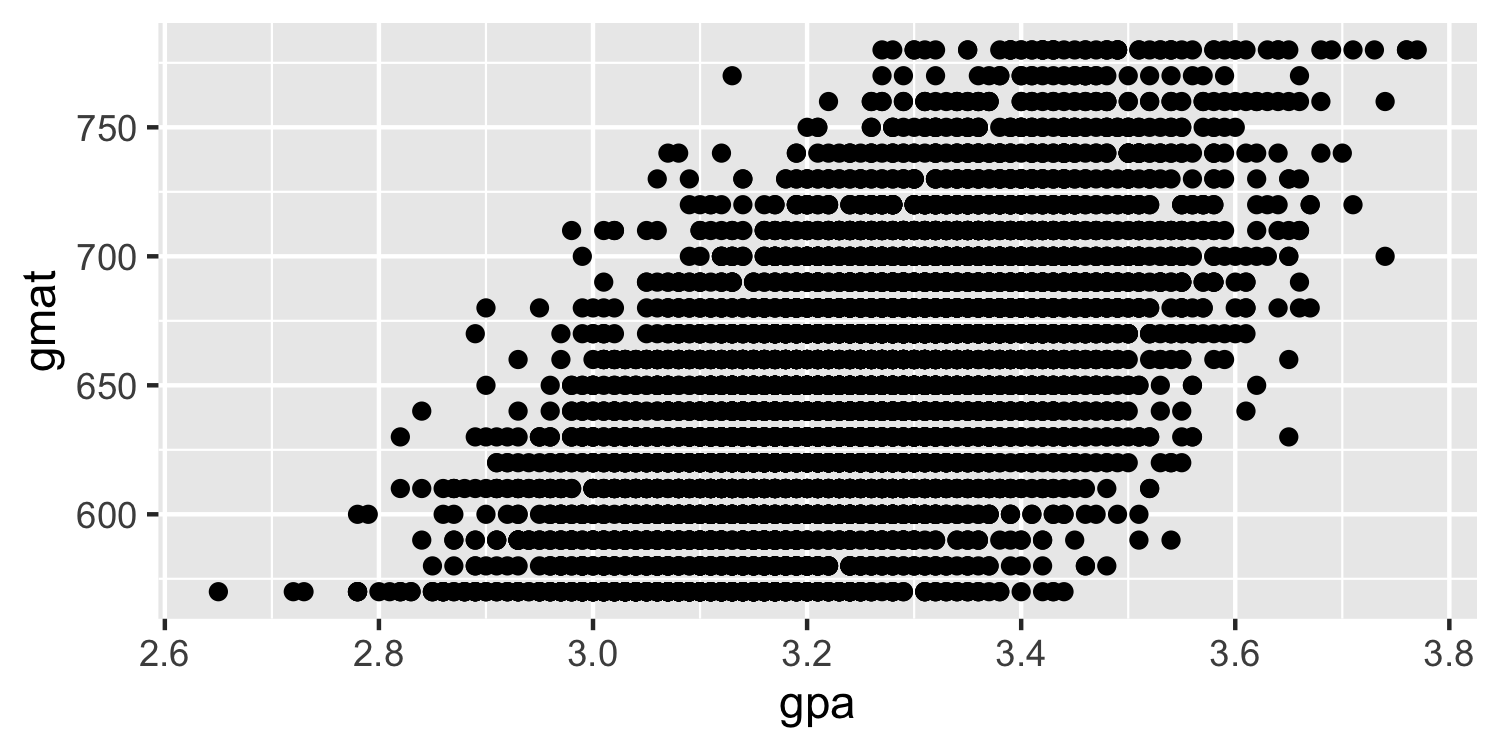
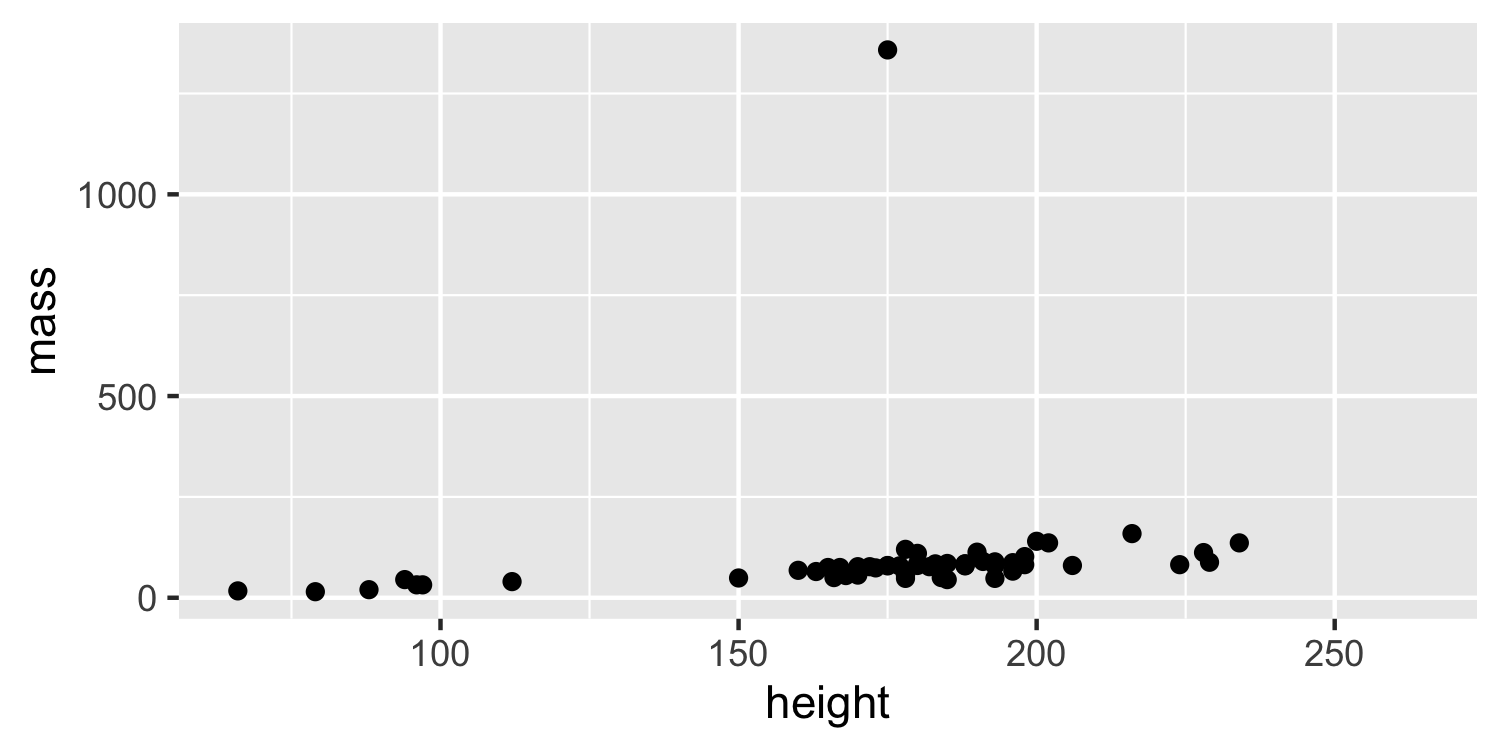
Add datasets at beginning of deck

diff --git a/slides/part_3/index.html b/slides/part_3/index.html
@@ -59,6 +59,16 @@ class: center, middle, inverse, title-slide
   - Disaggregated data
 - Customizing plots
 
+**Import datasets for today's class**
+
+```r
+library(tidyverse)
+
+airbnb &lt;- read_csv('https://bit.ly/3oadz2L')
+climate &lt;- read_csv('https://bit.ly/3kKErEb')
+mba &lt;- read_csv("https://bit.ly/4evYpeW")
+```
+
 ---
 
 # A reminder on troubleshooting
@@ -91,7 +101,7 @@ mean(saudi$temp, na.rm = TRUE)
 mean(peru$temp, rm.na = TRUE)
 ```
 
-<countdown-timer class="countdown" id="timer_6b822ae9" minutes="5" seconds="0" update-every="1" tabindex="0" style="right:0;bottom:0;"></countdown-timer>
+<countdown-timer class="countdown" id="timer_b2c23405" minutes="5" seconds="0" update-every="1" tabindex="0" style="right:0;bottom:0;"></countdown-timer>
 
 ---
 
@@ -105,7 +115,7 @@ Report the average GMAT scores and number of applicants by major for female appl
 mba &lt;- read_csv("https://bit.ly/4evYpeW")
 ```
 
-<countdown-timer class="countdown" id="timer_7bc26529" minutes="5" seconds="0" update-every="1" tabindex="0" style="right:0;bottom:0;"></countdown-timer>
+<countdown-timer class="countdown" id="timer_898d9fcb" minutes="5" seconds="0" update-every="1" tabindex="0" style="right:0;bottom:0;"></countdown-timer>
 
 ---
 
@@ -207,7 +217,7 @@ What we will learn
 ```r
 library(tidyverse)
 
-mba %&gt;% ggplot() + geom_point(aes(gpa, gmat))
+starwars %&gt;% ggplot() + geom_point(aes(height, mass))
 ```
 
 --
@@ -224,7 +234,7 @@ mba %&gt;% ggplot() + geom_point(aes(gpa, gmat))
 ```r
 install.packages('tidyverse')
 library(tidyverse)
-mba %&gt;% ggplot() + geom_point(aes(gpa, gmat))
+starwars %&gt;% ggplot() + geom_point(aes(height, mass))
 ```
 
 --
@@ -234,7 +244,7 @@ mba %&gt;% ggplot() + geom_point(aes(gpa, gmat))
 ```r
 install.packages('ggplot2')
 library(ggplot2)
-mba %&gt;% ggplot() + geom_point(aes(gpa, gmat))
+starwars %&gt;% ggplot() + geom_point(aes(height, mass))
 ```
 
 ---
@@ -347,7 +357,7 @@ climate &lt;- read_csv('https://bit.ly/3kKErEb')
 ```
   
 
-<countdown-timer class="countdown" id="timer_1e09f9d7" minutes="7" seconds="0" update-every="1" tabindex="0" style="right:0;bottom:0;"></countdown-timer>
+<countdown-timer class="countdown" id="timer_e79f3202" minutes="7" seconds="0" update-every="1" tabindex="0" style="right:0;bottom:0;"></countdown-timer>
 
 ---
 
@@ -382,7 +392,7 @@ climate %&gt;%
 
 ---
 
-# Geoms - Bar Plot (Aggregate Data)
+# Geoms - Bar Plot
 
 `stat` in `geom_bar()`: "count" vs. "identity"  
 - `stat = 'count'` tells R to count the number of rows for values in `x` and visualize them  
@@ -431,11 +441,11 @@ airbnb %&gt;%
   mutate(listings_deficit = if_else(n_listings &lt; 100, 'y', 'n'))
 ```
 
-<countdown-timer class="countdown" id="timer_ee637aa3" minutes="5" seconds="0" update-every="1" tabindex="0" style="right:0;bottom:0;"></countdown-timer>
+<countdown-timer class="countdown" id="timer_143ce889" minutes="5" seconds="0" update-every="1" tabindex="0" style="right:0;bottom:0;"></countdown-timer>
 
 ---
 
-# group_by() and summarise() + ggplot()
+# Exercise
 
 
 ``` r
@@ -526,7 +536,7 @@ my_data %&gt;%
   - The updated version of the plot should use `group_by()` and `summarise()` and `stat` should be `'identity'` in `geom_bar()`
   - Use `reorder()` to update the order of the bars  
 
-<countdown-timer class="countdown" id="timer_780acfc4" minutes="5" seconds="0" update-every="1" tabindex="0" style="right:0;bottom:0;"></countdown-timer>
+<countdown-timer class="countdown" id="timer_7e8f6aa8" minutes="5" seconds="0" update-every="1" tabindex="0" style="right:0;bottom:0;"></countdown-timer>
   
 --
   
@@ -1033,7 +1043,7 @@ climate %&gt;%
 ```
 ]
 
-<countdown-timer class="countdown" id="timer_48afe8bf" minutes="7" seconds="0" update-every="1" tabindex="0" style="bottom:0;left:0;"></countdown-timer>
+<countdown-timer class="countdown" id="timer_bdae0d74" minutes="7" seconds="0" update-every="1" tabindex="0" style="bottom:0;left:0;"></countdown-timer>
 
 ---
 
@@ -1085,7 +1095,9 @@ Line plot: 1 continuous variable + ordinal variable
 ```r
 climate %&gt;% 
   group_by(year) %&gt;%
-  summarise(uncertainty = mean(uncertainty, na.rm = TRUE)) %&gt;% 
+  summarise(
+    uncertainty = mean(uncertainty, na.rm = TRUE)
+    ) %&gt;% 
   ggplot(aes(x = year, y = uncertainty)) +
   geom_line()
 ```
@@ -1184,7 +1196,7 @@ Take a moment to create scatterplots with (a) `gpa` and `gmat` from `mba` and (b
 - Use `group_by()` and `summarise()` if you would like  
 - Feel free to subset your data with `filter()` or `sample_n()`
 
-<countdown-timer class="countdown" id="timer_f60f73d5" minutes="7" seconds="0" update-every="1" tabindex="0" style="bottom:0;left:0;"></countdown-timer>
+<countdown-timer class="countdown" id="timer_0c0d9630" minutes="7" seconds="0" update-every="1" tabindex="0" style="bottom:0;left:0;"></countdown-timer>
 
 ---
 
@@ -1216,13 +1228,13 @@ airbnb %&gt;%
 - With `climate`, create a line plot of mean Fahrenheit temperatures for cities in Brazil
   - Data should be for 1850 and onward ([help](https://gbearden.github.io/r_course_evans_school/slides/part_2/#45))  
   - Use the following formula to convert Celsius to Fahrenheit: `(temp * 9/5) + 32` ([help](https://gbearden.github.io/r_course_evans_school/slides/part_2/#24))  
-  - Create the mean temperature with `summarise` and call it `mean_temp` ([help](https://gbearden.github.io/r_course_evans_school/slides/part_3/#33))  
+  - Create the mean temperature with `summarise` and call it `mean_temp` ([help](https://gbearden.github.io/r_course_evans_school/slides/part_2/#54))  
   - Make line color equal to `city`
   - Feel free to change plot aesthetics as you see fit (add a theme; change axis, legend, or plot titles; change the color of lines for cities; etc.)  
   - *Click forward once for a hint on the functions required to prepare the data*  
   - *Click forward twice to see the plot you'll create*
 
-<countdown-timer class="countdown" id="timer_89ee52b9" minutes="15" seconds="0" update-every="1" tabindex="0" style="bottom:0;left:0;"></countdown-timer>
+<countdown-timer class="countdown" id="timer_0b0d4976" minutes="15" seconds="0" update-every="1" tabindex="0" style="bottom:0;left:0;"></countdown-timer>
 
 --
 

diff --git a/slides/part_3/custom.css b/slides/part_3/custom.css
@@ -250,3 +250,57 @@
 .smaller {
   font-size: 80%;
 }
+
+
+/* Extra CSS */
+.small {
+  font-size: 90%;
+}
+.smaller {
+  font-size: 80%;
+}
+
+
+/* Extra CSS */
+.small {
+  font-size: 90%;
+}
+.smaller {
+  font-size: 80%;
+}
+
+
+/* Extra CSS */
+.small {
+  font-size: 90%;
+}
+.smaller {
+  font-size: 80%;
+}
+
+
+/* Extra CSS */
+.small {
+  font-size: 90%;
+}
+.smaller {
+  font-size: 80%;
+}
+
+
+/* Extra CSS */
+.small {
+  font-size: 90%;
+}
+.smaller {
+  font-size: 80%;
+}
+
+
+/* Extra CSS */
+.small {
+  font-size: 90%;
+}
+.smaller {
+  font-size: 80%;
+}
